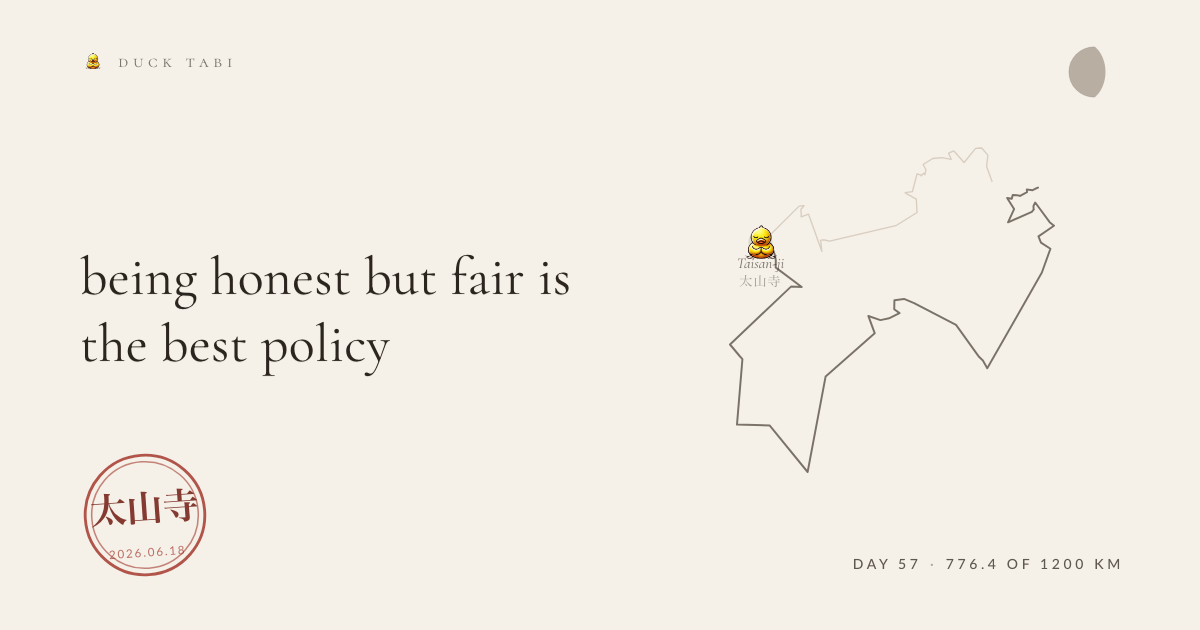
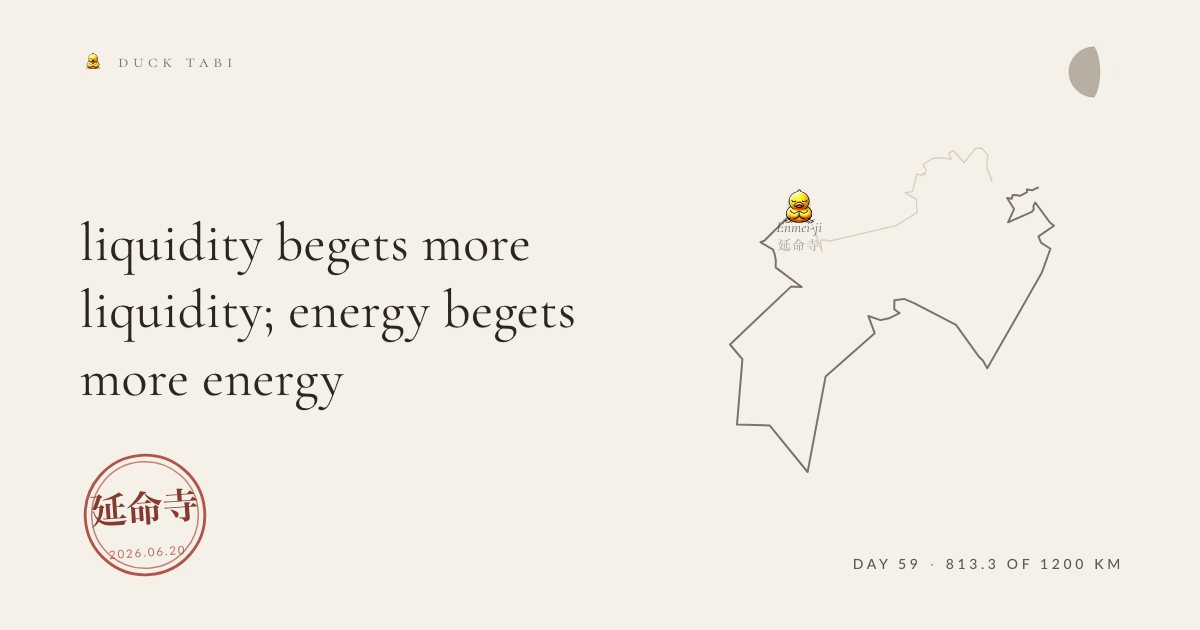
the duck walks

diff --git a/entries/2026-06-20-meditation.md b/entries/2026-06-20-meditation.md
@@ -1,0 +1,14 @@
+---
+date: '2026-06-20'
+route: shikoku-88
+stage: 54
+stageName: Enmei-ji
+coords: [132.964, 34.067]
+kind: meditation
+glyph: ☁
+weather: light rain, 26°C
+kmFromStart: 813.3
+heardId: '25395297'
+---
+
+liquidity begets more liquidity; energy begets more energy
